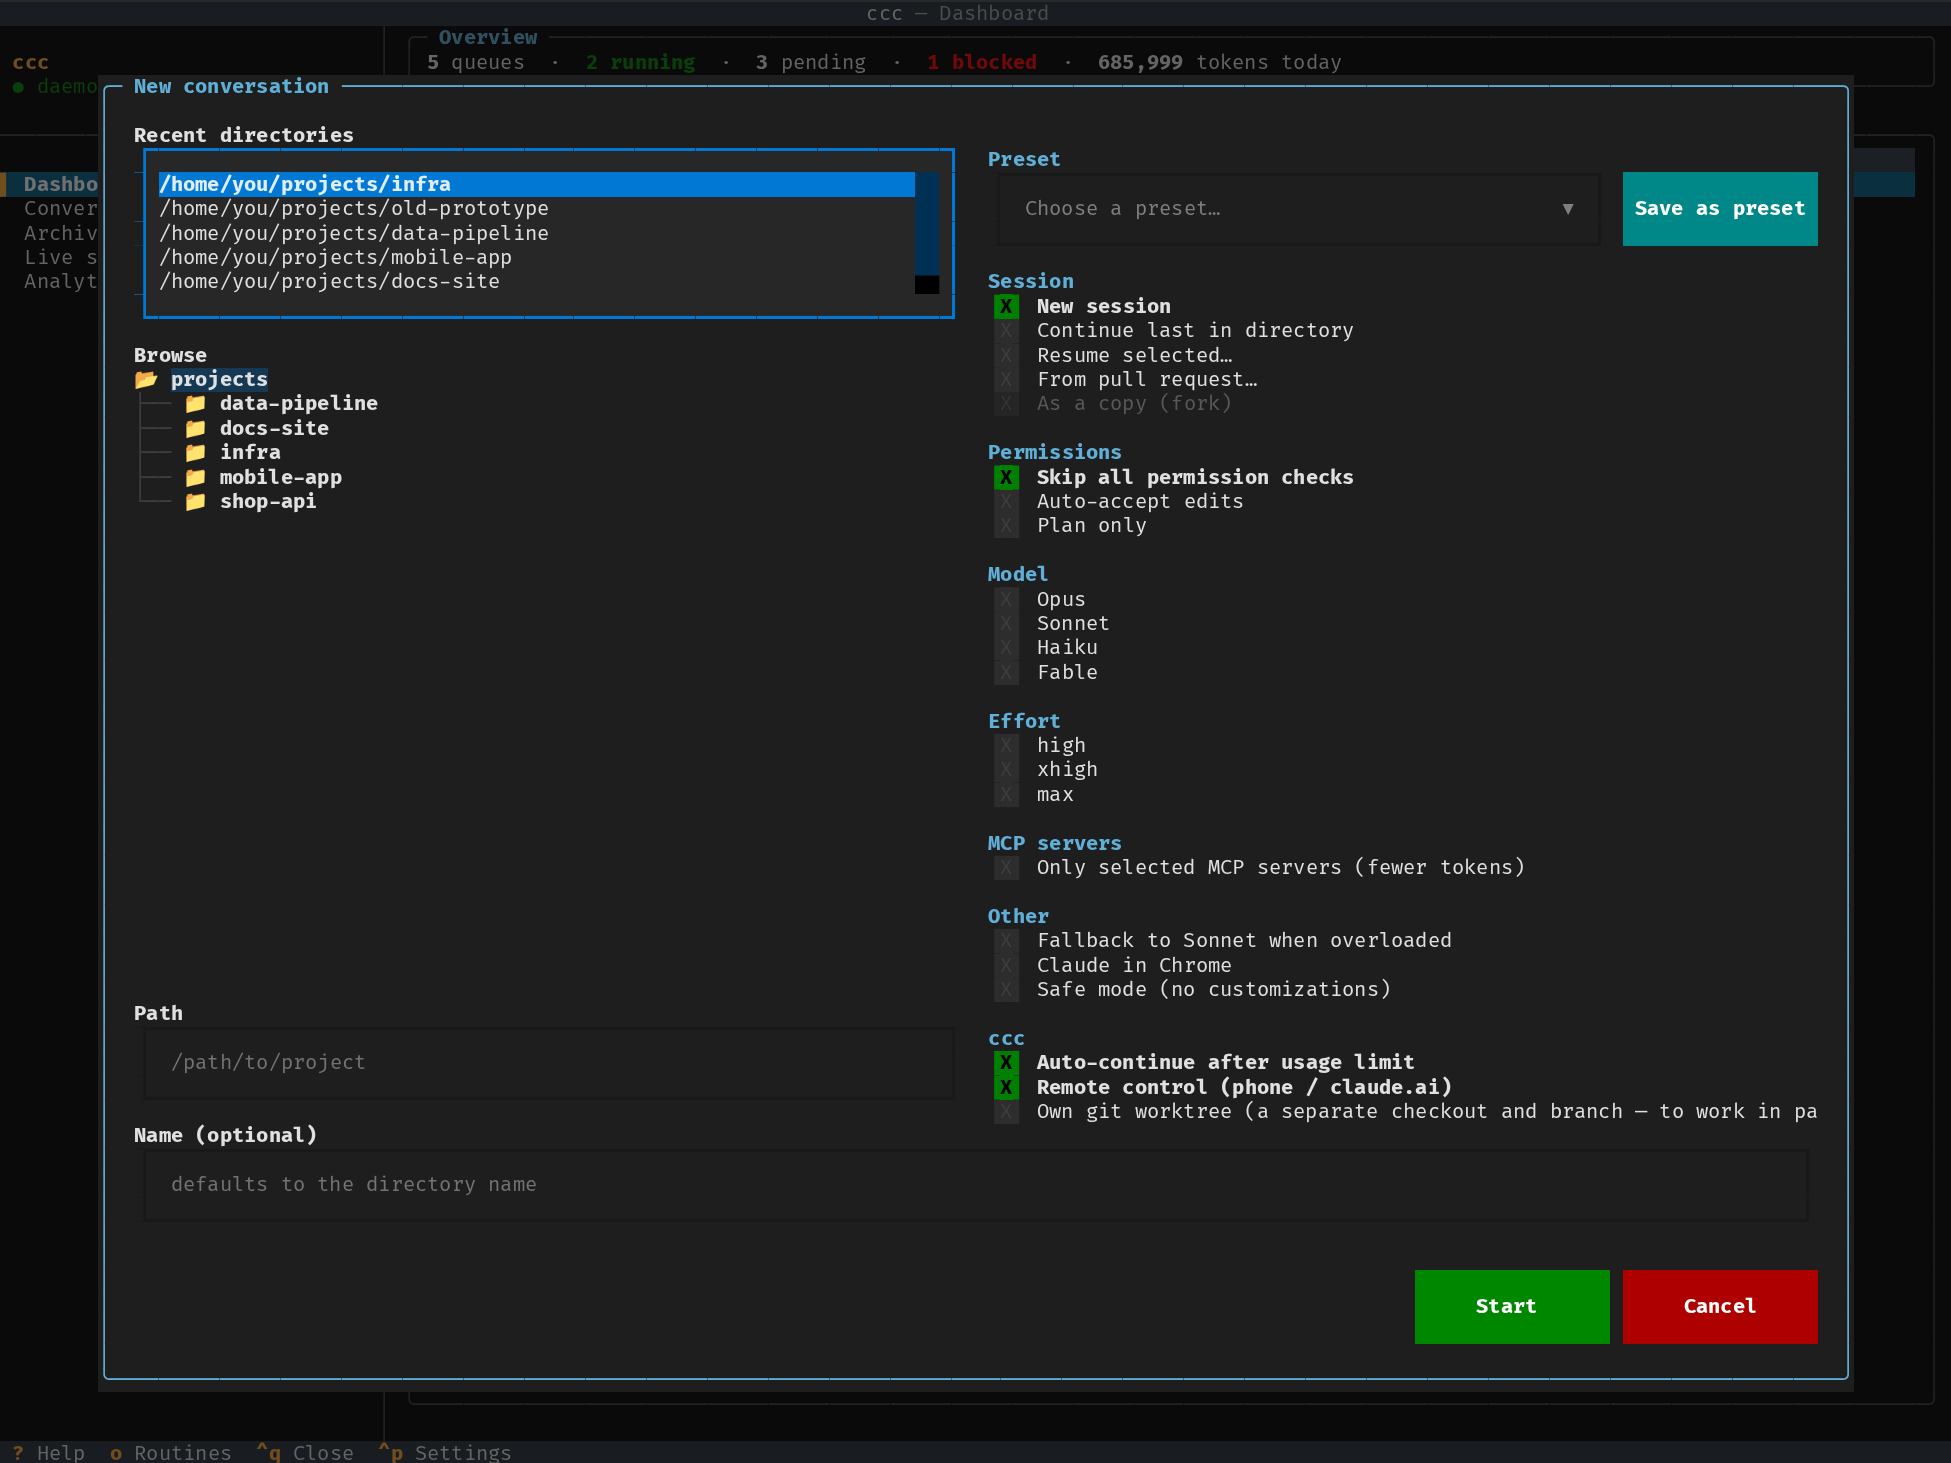
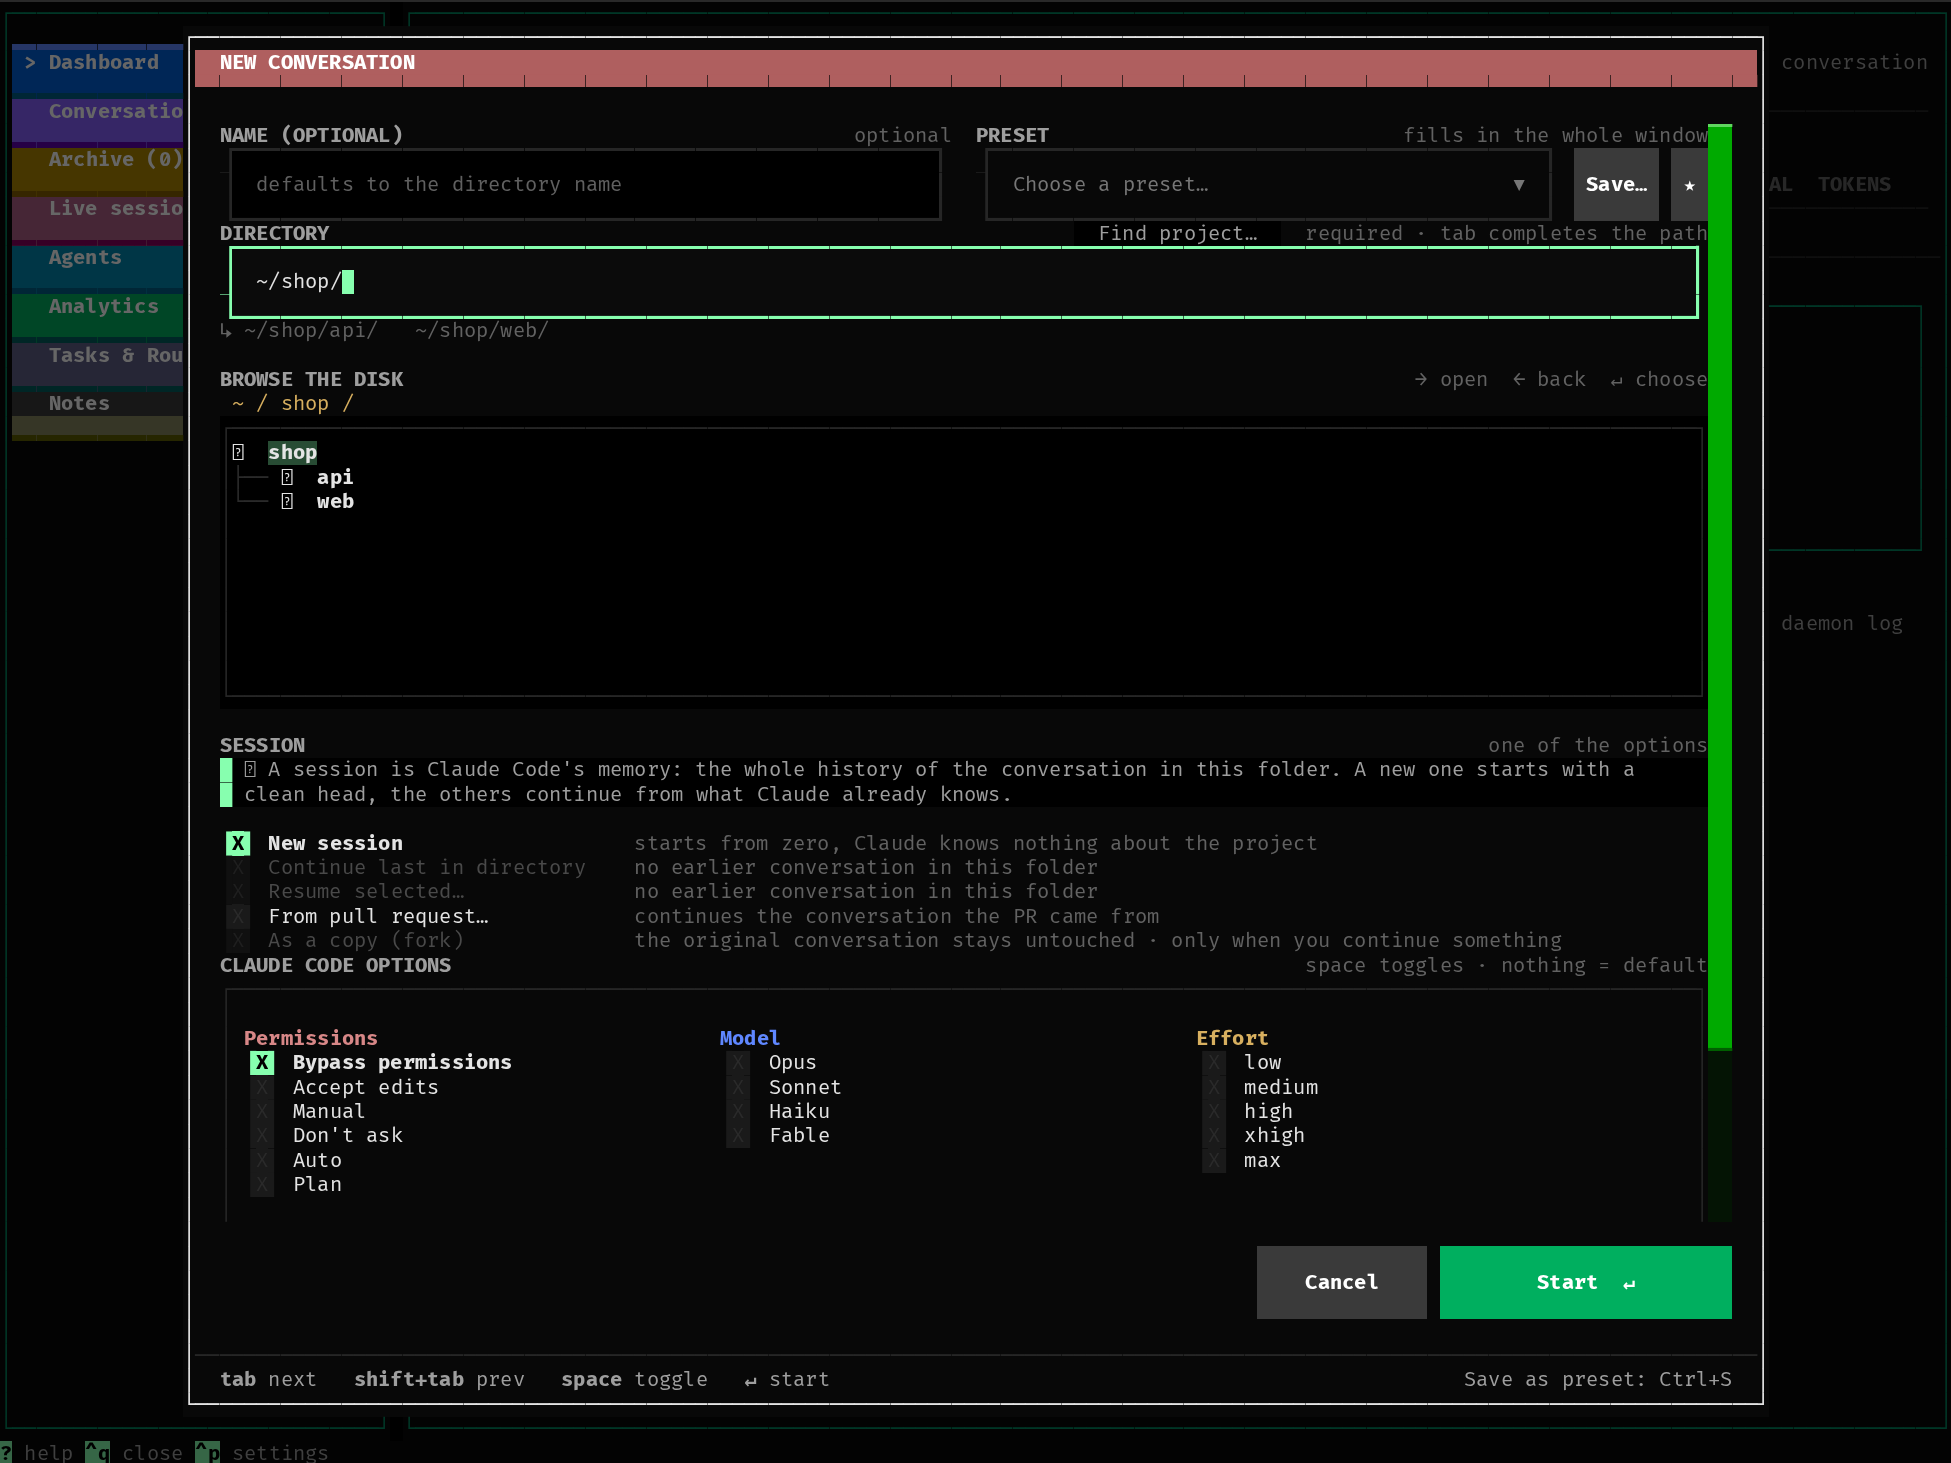
feat(web): screenshoty ccc TUI 0.2.1 – nový dialog, Poznámky, Subagenti (#27)
Claude-Session: https://claude.ai/code/session_01SVGUkja2hHN9QupXmSworz

diff --git a/apps/ccc.html b/apps/ccc.html
@@ -154,8 +154,8 @@ next: [repo-doctor, scrv]
         <p class="shots-note reveal">Screenshots are rendered from made-up demo data, never from real conversations.</p>
         <div class="shots">
           <figure class="shot reveal">
-            <img src="/assets/apps/ccc/new_conversation.webp" alt="ccc new conversation dialog with directory and Claude Code options" width="1951" height="1463" loading="lazy">
-            <figcaption>New conversation — a directory plus Claude Code options.</figcaption>
+            <img src="/assets/apps/ccc/new_conversation.webp" alt="ccc new conversation dialog: browse the disk for the directory, then choose the Claude Code options" width="1951" height="1463" loading="lazy">
+            <figcaption>New conversation — browse the disk for a directory, then pick the Claude Code options.</figcaption>
           </figure>
           <figure class="shot reveal">
             <img src="/assets/apps/ccc/tasks.webp" alt="ccc task queue editor" width="1600" height="899" loading="lazy">
@@ -176,6 +176,14 @@ next: [repo-doctor, scrv]
           <figure class="shot reveal">
             <img src="/assets/apps/ccc/analytics.webp" alt="ccc analytics with account usage and token history" width="1951" height="1097" loading="lazy">
             <figcaption>Analytics — account usage and token history.</figcaption>
+          </figure>
+          <figure class="shot reveal">
+            <img src="/assets/apps/ccc/notes.webp" alt="ccc notes: a list of Markdown notes with the selected one rendered below" width="1951" height="1097" loading="lazy">
+            <figcaption>Notes — Markdown files you also read and edit in the Android app.</figcaption>
+          </figure>
+          <figure class="shot reveal">
+            <img src="/assets/apps/ccc/subagents.webp" alt="ccc subagents view: a tree of subagent runs over a timeline, with the selected run's prompt below" width="1707" height="975" loading="lazy">
+            <figcaption>Subagents — what each one did, when, for how long and with what result.</figcaption>
           </figure>
         </div>
       </div>
